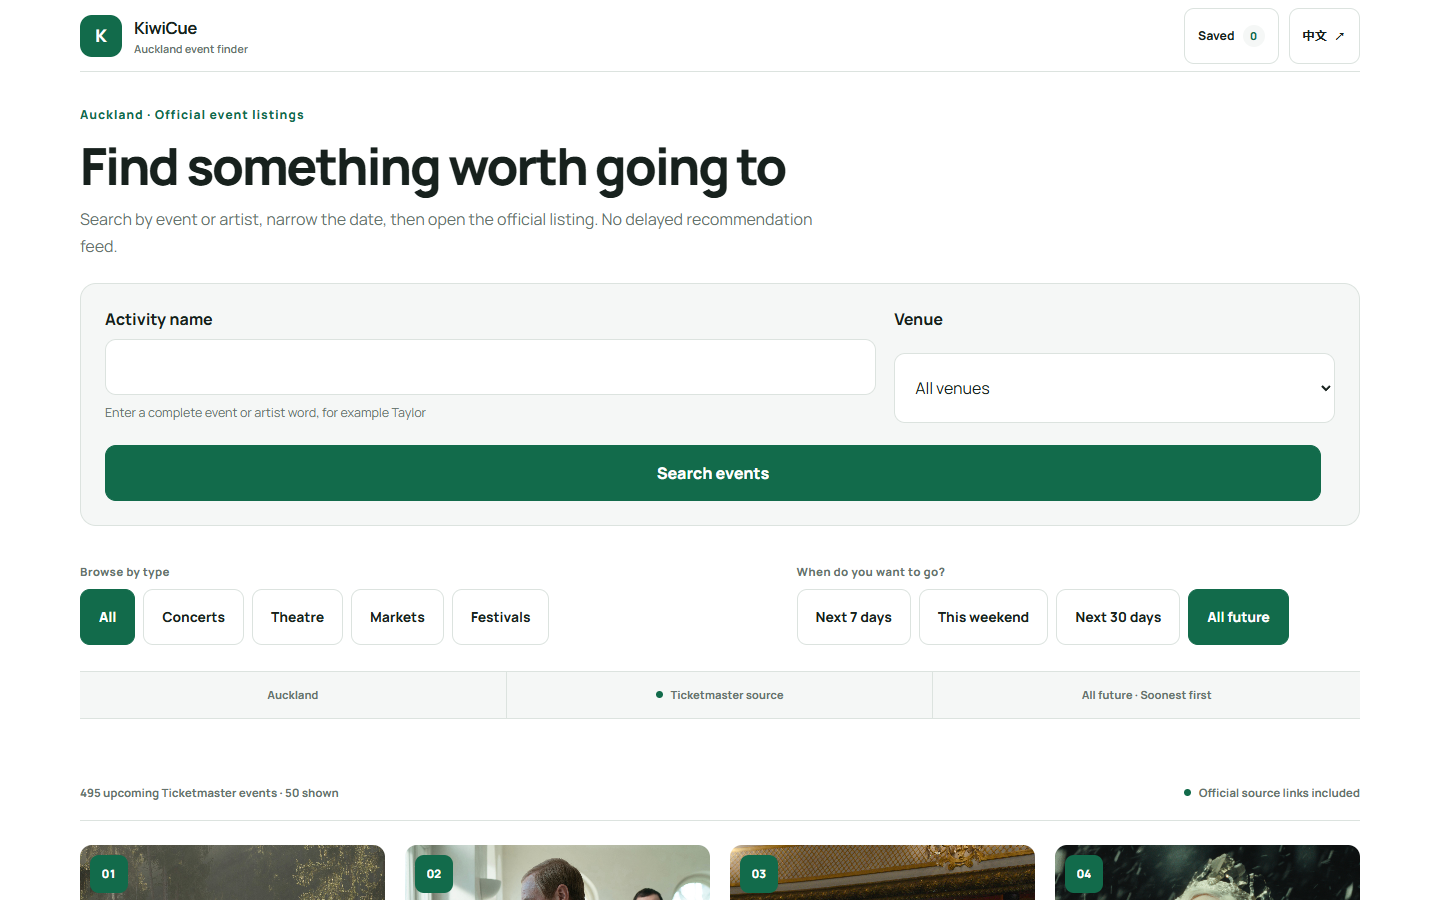
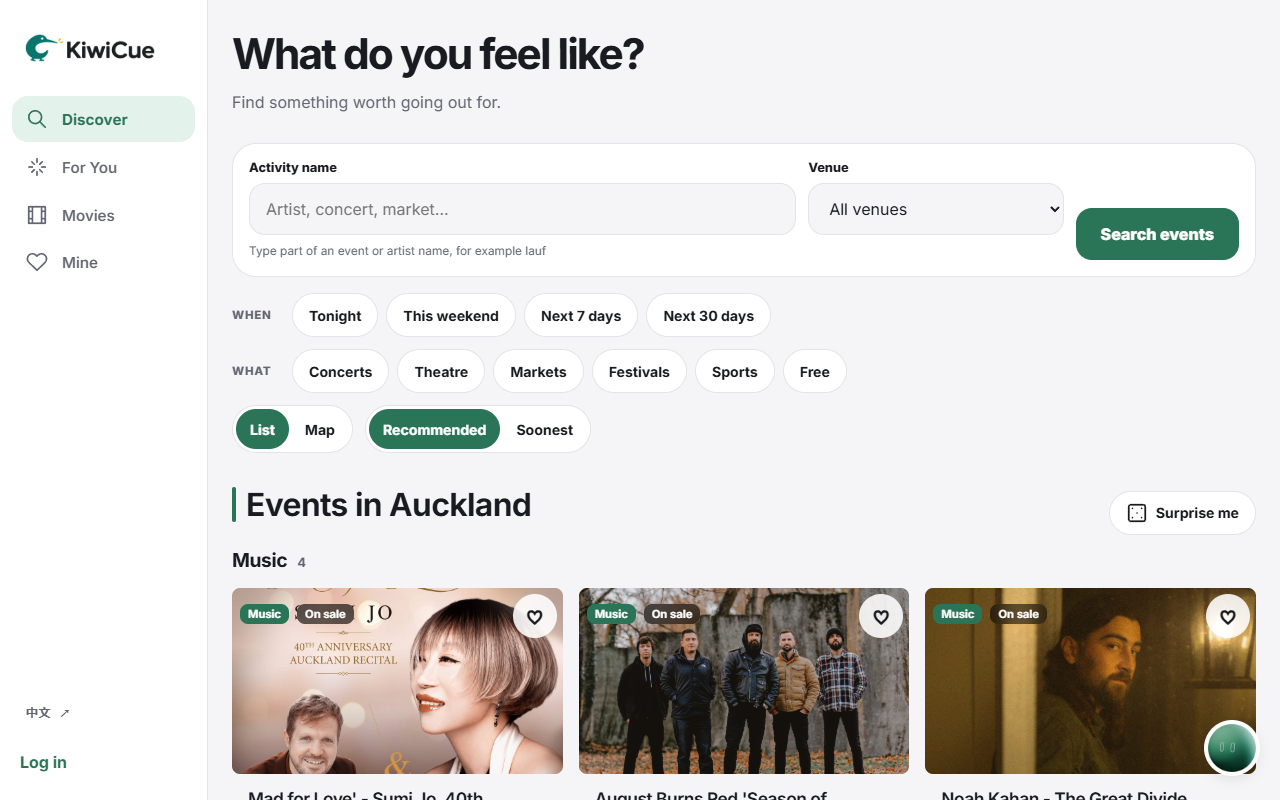
feat: add pyagent and Ashen Depths with real previews
- pyagent card: preview is the real output of examples/offline_demo.py and pyagent policy
- Ashen Depths card: in-game screenshot (floor 23 battle) scaled pixel-perfect 1.5x
- Refresh KiwiCue (kiwicue.nz) and ReNova screenshots, bump cache versions
- KiwiCue links move to kiwicue.nz; hero count 4 -> 6; skill map links pyagent

diff --git a/index.html b/index.html
@@ -3,7 +3,7 @@
 <head>
   <meta charset="UTF-8">
   <meta name="viewport" content="width=device-width, initial-scale=1.0">
-  <meta name="description" content="Yi Han is an Auckland-based software engineer building practical web apps and browser tools, including PanSub, ReNova, KiwiCue, and TillTally.">
+  <meta name="description" content="Yi Han is an Auckland-based software engineer building practical web apps and browser tools, including PanSub, pyagent, Ashen Depths, ReNova, KiwiCue, and TillTally.">
   <meta name="theme-color" content="#f5f5f7">
   <link rel="canonical" href="https://hannnnnnnny.github.io/yi-han-software-engineer/">
   <meta property="og:title" content="Software Engineer | Yi Han">
@@ -60,7 +60,7 @@
         </p>
 
         <ul class="hero-proof" aria-label="Profile highlights">
-          <li><strong>4 projects</strong><span>selected work</span></li>
+          <li><strong>6 projects</strong><span>selected work</span></li>
           <li><strong>Java · TypeScript · SQL</strong><span>core tools</span></li>
           <li><strong>Open to roles</strong><span>software / full-stack</span></li>
         </ul>
@@ -228,9 +228,51 @@
           </div>
         </article>
 
+        <article class="project-card" id="project-pyagent">
+          <a class="project-thumb" href="https://github.com/hannnnnnnny/Agent_Pyagent_Harness" target="_blank" rel="noopener noreferrer" aria-label="View pyagent on GitHub">
+            <img src="assets/previews/pyagent.png?v=20261012" alt="pyagent offline demo in a terminal: a .env read is blocked, a shell command waits for approval, and risky commands are classified ASK or BLOCK" loading="lazy">
+            <span class="thumb-badge">New</span>
+          </a>
+          <div class="project-main">
+            <p class="project-type">AI agent harness</p>
+            <h3>pyagent</h3>
+            <p>A coding agent for DeepSeek and Claude with real file, search and shell tools, kept behind a path sandbox, command policy, approvals and an audit log.</p>
+          </div>
+          <ul class="tags" aria-label="Technologies used">
+            <li>Python</li>
+            <li>LLM tool calling</li>
+            <li>Safety policy</li>
+            <li>CI</li>
+          </ul>
+          <div class="project-actions">
+            <a class="project-link" href="https://github.com/hannnnnnnny/Agent_Pyagent_Harness/blob/main/README.md" target="_blank" rel="noopener noreferrer" aria-label="Read the pyagent README on GitHub">GitHub README</a>
+          </div>
+        </article>
+
+        <article class="project-card" id="project-ashen-depths">
+          <a class="project-thumb" href="https://github.com/hannnnnnnny/ARPG-CX/releases/latest" target="_blank" rel="noopener noreferrer" aria-label="Download Ashen Depths from GitHub Releases">
+            <img src="assets/previews/ashen-depths.png?v=20261012" alt="Ashen Depths in-game screenshot: a pixel-art hero fighting on dungeon floor 23 with a skill bar and health orb" loading="lazy">
+          </a>
+          <div class="project-main">
+            <p class="project-type">Pixel action RPG</p>
+            <h3>Ashen Depths</h3>
+            <p>A Diablo-like ARPG in C99 for Windows and the TI-Nspire CX calculator: procedural dungeons, 6 classes, loot and builds, played by hand or on idle auto-battle.</p>
+          </div>
+          <ul class="tags" aria-label="Technologies used">
+            <li>C99</li>
+            <li>Game systems</li>
+            <li>Procedural generation</li>
+            <li>Embedded</li>
+          </ul>
+          <div class="project-actions">
+            <a class="project-link" href="https://github.com/hannnnnnnny/ARPG-CX/releases/latest" target="_blank" rel="noopener noreferrer" aria-label="Download the latest Ashen Depths release">Download</a>
+            <a class="project-link" href="https://github.com/hannnnnnnny/ARPG-CX/blob/main/README.md" target="_blank" rel="noopener noreferrer" aria-label="Read the Ashen Depths README on GitHub">GitHub README</a>
+          </div>
+        </article>
+
         <article class="project-card" id="project-renova">
           <a class="project-thumb" href="https://hannnnnnnny.github.io/ReNova-Second-Hand-C2C-Marketplace/" target="_blank" rel="noopener noreferrer" aria-label="Open the live ReNova marketplace">
-            <img src="assets/previews/renova.png" alt="ReNova marketplace storefront preview" loading="lazy">
+            <img src="assets/previews/renova.png?v=20261012" alt="ReNova marketplace storefront preview" loading="lazy">
             <span class="thumb-badge">Live</span>
           </a>
           <div class="project-main">
@@ -251,8 +293,8 @@
         </article>
 
         <article class="project-card" id="project-kiwicue">
-          <a class="project-thumb" href="https://kiwicue.vercel.app/events" target="_blank" rel="noopener noreferrer" aria-label="Open the live KiwiCue events page">
-            <img src="assets/previews/kiwicue.png?v=20260806" alt="KiwiCue live Auckland events search and chronological event feed preview" loading="lazy">
+          <a class="project-thumb" href="https://kiwicue.nz/events" target="_blank" rel="noopener noreferrer" aria-label="Open the live KiwiCue events page">
+            <img src="assets/previews/kiwicue.png?v=20261012" alt="KiwiCue home page: an Auckland event guide you can ask in English or Chinese" loading="lazy">
           </a>
           <div class="project-main">
             <p class="project-type">Auckland event discovery</p>
@@ -266,8 +308,8 @@
             <li>APIs</li>
           </ul>
           <div class="project-actions">
-            <a class="project-link" href="https://kiwicue.vercel.app/events" target="_blank" rel="noopener noreferrer" aria-label="Browse KiwiCue events">Events</a>
-            <a class="project-link" href="https://kiwicue.vercel.app/movies" target="_blank" rel="noopener noreferrer" aria-label="Browse KiwiCue movies and cinema sessions">Movies</a>
+            <a class="project-link" href="https://kiwicue.nz/events" target="_blank" rel="noopener noreferrer" aria-label="Browse KiwiCue events">Events</a>
+            <a class="project-link" href="https://kiwicue.nz/movies" target="_blank" rel="noopener noreferrer" aria-label="Browse KiwiCue movies and cinema sessions">Movies</a>
             <a class="project-link" href="https://github.com/hannnnnnnny/kiwicue/blob/main/README.md" target="_blank" rel="noopener noreferrer" aria-label="Read the KiwiCue README on GitHub">GitHub README</a>
           </div>
         </article>

diff --git a/app.js b/app.js
@@ -233,6 +233,8 @@
     const projectLinks = $("#skill-project-links");
     const projects = {
       pansub: { label: "PanSub", href: "#project-pansub" },
+      pyagent: { label: "pyagent", href: "#project-pyagent" },
+      ashenDepths: { label: "Ashen Depths", href: "#project-ashen-depths" },
       renova: { label: "ReNova", href: "#project-renova" },
       kiwicue: { label: "KiwiCue", href: "#project-kiwicue" },
       tilltally: { label: "TillTally", href: "#project-tilltally" },
@@ -277,7 +279,7 @@
       Azure: { text: "Studying Azure services and application deployment patterns.", projects: [] },
       AWS: { text: "Studying AWS services and cloud architecture fundamentals.", projects: [] },
       RAG: { text: "Built a Python client for hosted document retrieval, showing source passages beside answers.", projects: ["ragDemo"] },
-      LLM: { text: "Uses a hosted language model in a retrieval workflow and checks answers against source context.", projects: ["ragDemo"] },
+      LLM: { text: "Drives pyagent's tool-calling loop on DeepSeek and Claude, and grounds a retrieval workflow in source context.", projects: ["pyagent", "ragDemo"] },
       Jev: { text: "TypeSafe AI's structured decision model, accessed through its JavaScript and TypeScript SDK.", projects: ["typesafeSdk"] },
     };
     const nodes = [

diff --git a/README.md b/README.md
@@ -9,6 +9,8 @@ It is a static GitHub Pages site featuring selected software projects, with a sm
 ## Featured Projects
 
 - PanSub Chrome extension
+- pyagent, a safety-first AI agent harness
+- Ashen Depths, a pixel ARPG for Windows and TI-Nspire CX
 - ReNova Second-Hand C2C Marketplace
 - KiwiCue
 - TillTally
